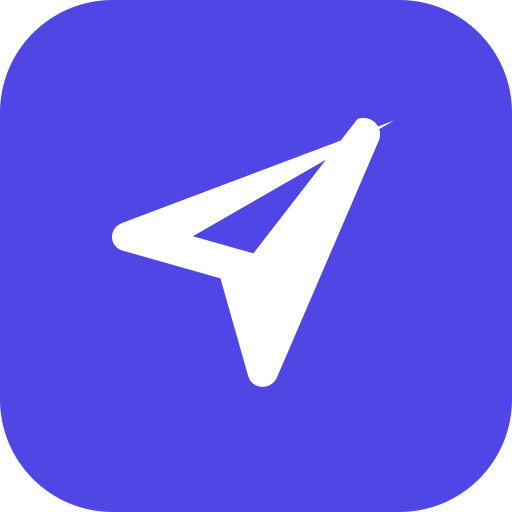
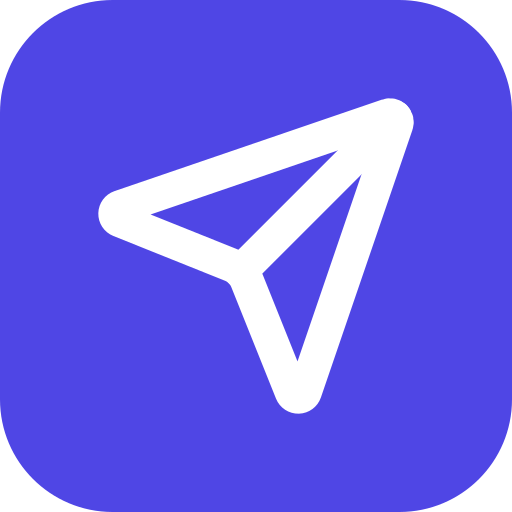
feat(brand): take the arrow mark from the Figma file

Changed region(s): [[0.1875, 0.1875, 0.8125, 0.8125], [0.4062, 0.4688, 0.4375, 0.5]]

diff --git a/src/shared/ui/BrandLogo/BrandLogo.scss b/src/shared/ui/BrandLogo/BrandLogo.scss
@@ -10,7 +10,7 @@
   &__mark {
     width: 1.5rem;
     height: 1.5rem;
-    fill: var(--color-brand-accent);
+    color: var(--color-brand-accent);
   }
   &__name {
     font-size: 1.25rem;
